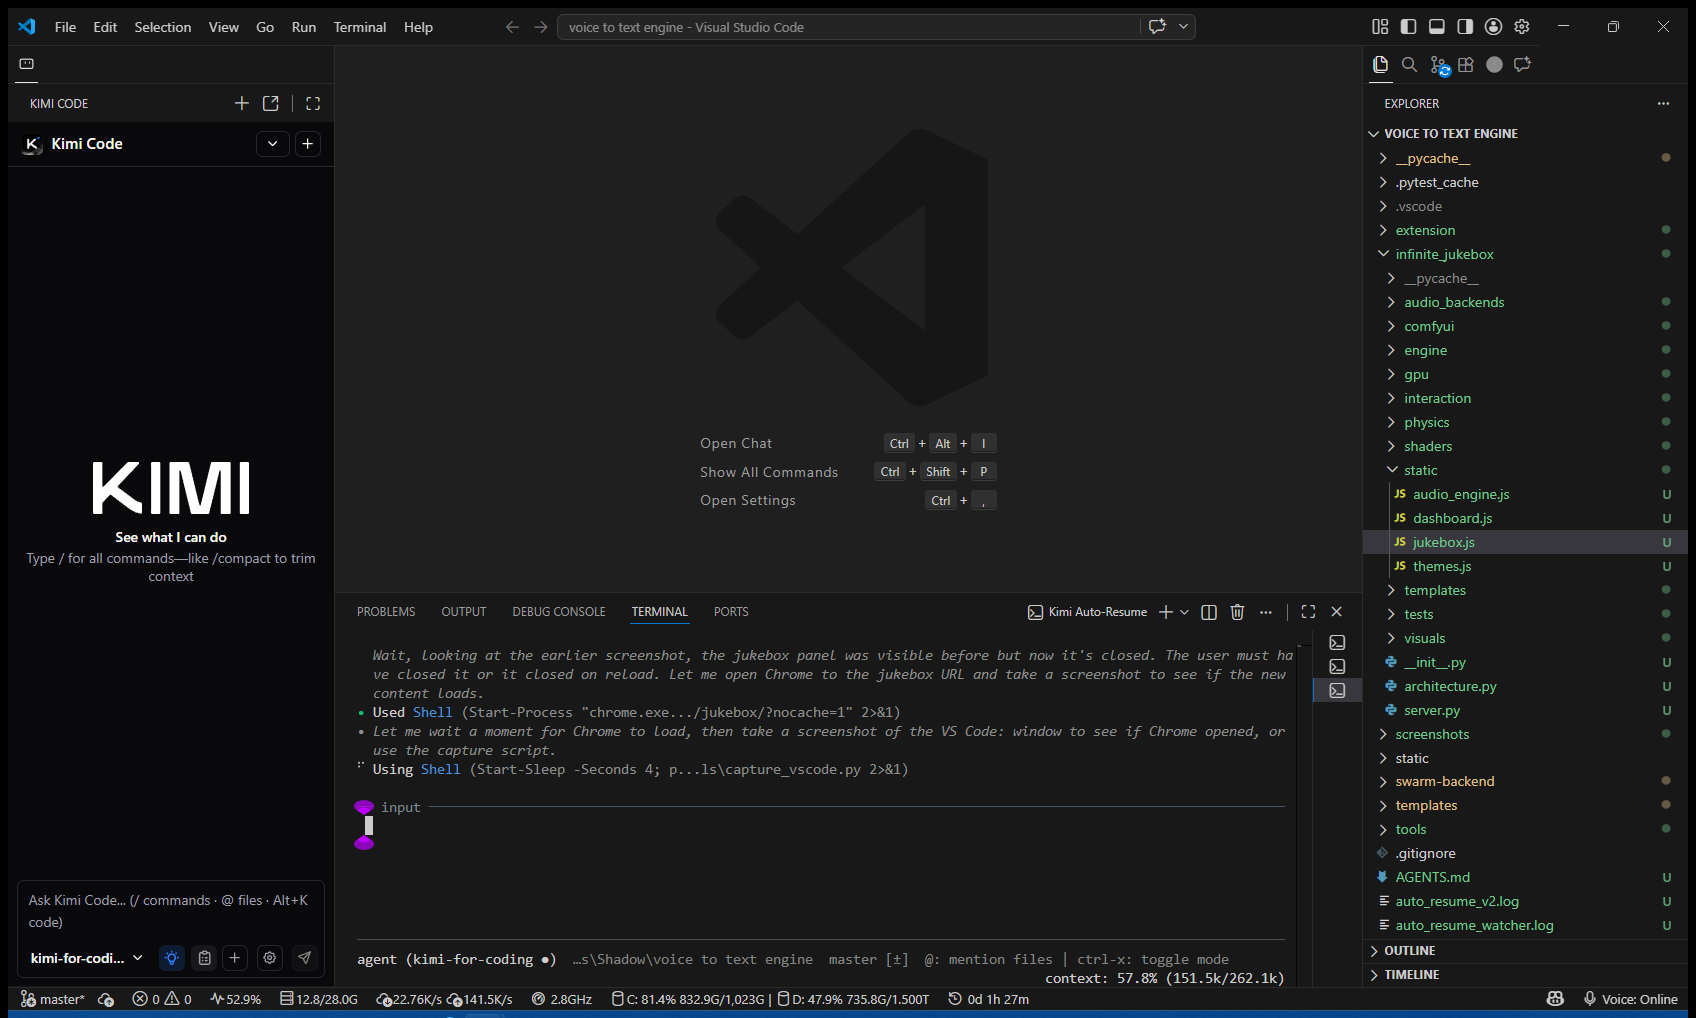
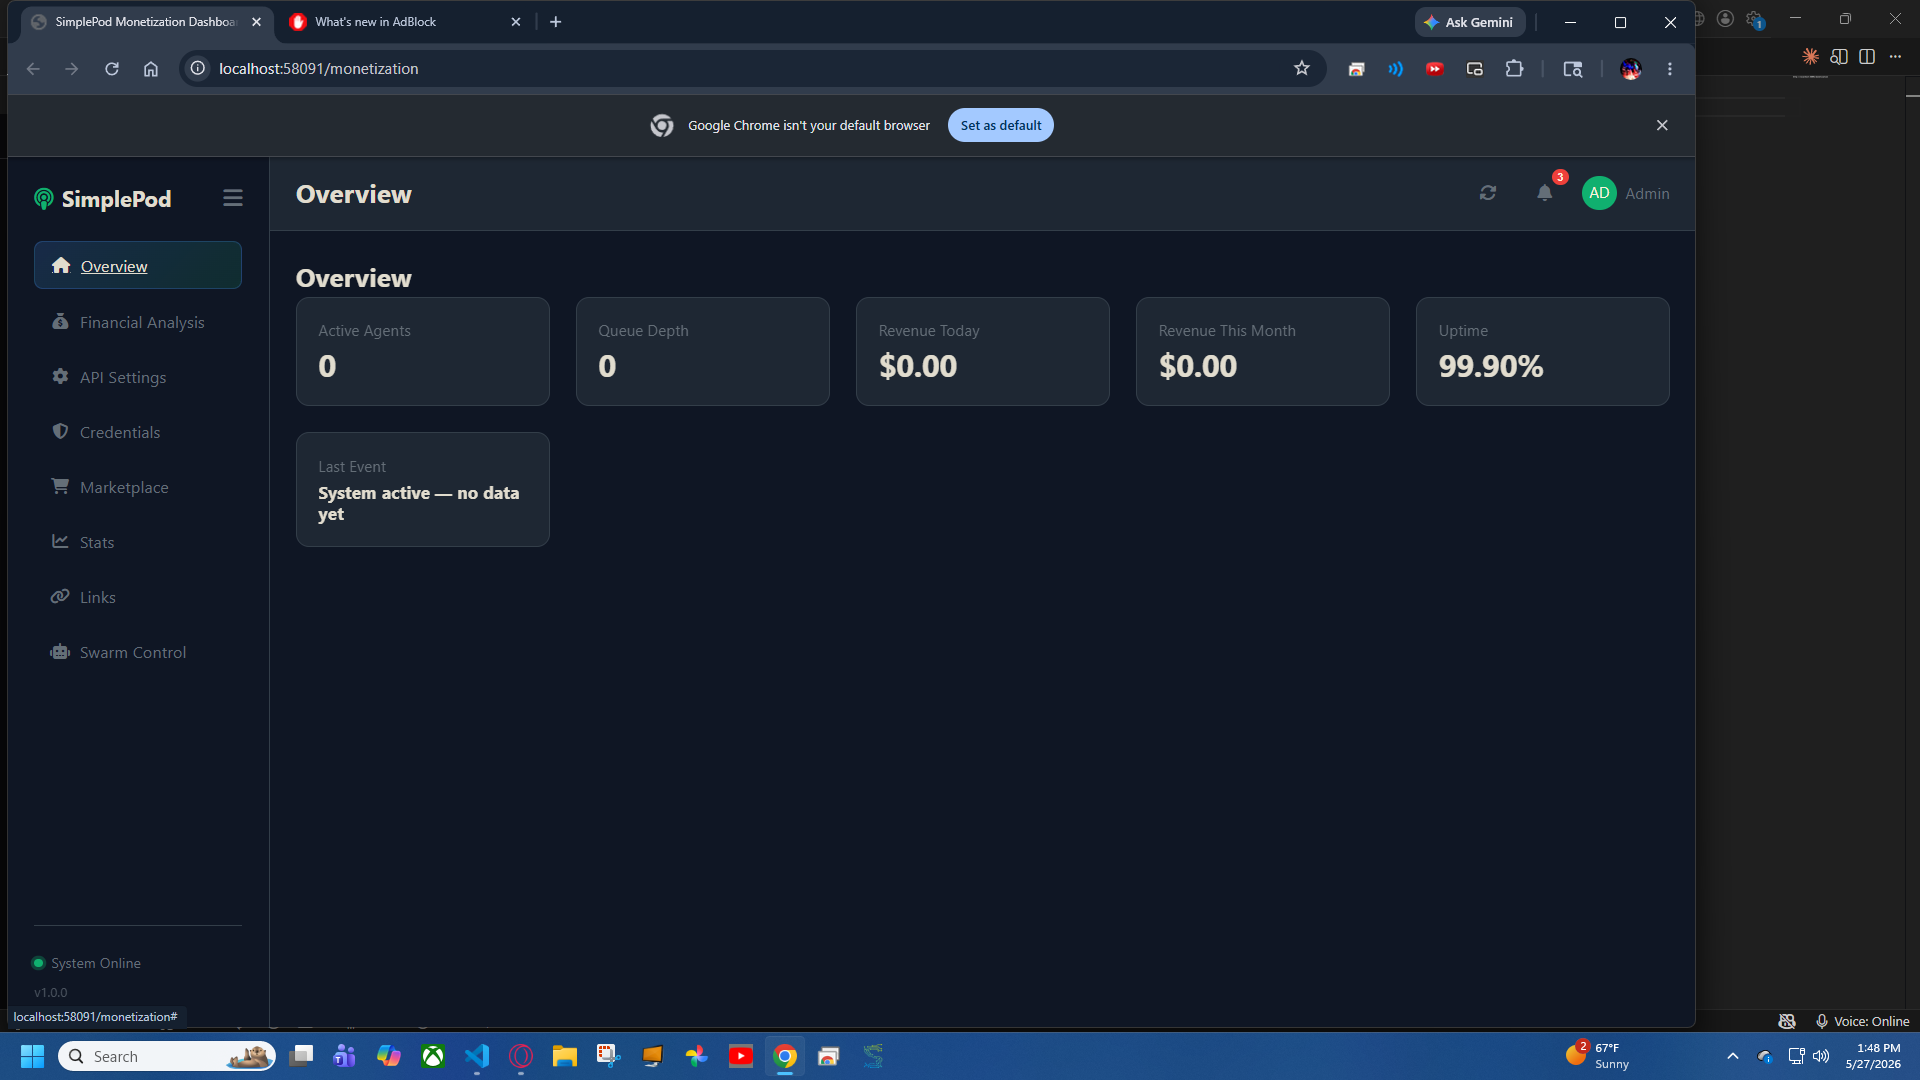
fix: redirect root to monetization dashboard, fix API status field names for JS

diff --git a/simplepod/remote_api.py b/simplepod/remote_api.py
@@ -9,8 +9,8 @@ import time
 from datetime import datetime, timezone
 from typing import Optional
 
-from fastapi import FastAPI, Header, HTTPException
-from fastapi.responses import FileResponse, HTMLResponse, JSONResponse
+from fastapi import FastAPI, Header, HTTPException, Request
+from fastapi.responses import FileResponse, HTMLResponse, JSONResponse, RedirectResponse
 from fastapi.staticfiles import StaticFiles
 from pydantic import BaseModel
 
@@ -80,8 +80,21 @@ def _write_json(path: str, data):
 
 
 @app.get("/")
-def root():
+def root(request: Request):
+    accept = request.headers.get("accept", "")
+    user_agent = request.headers.get("user-agent", "").lower()
+    # If accessed by a browser (not curl/api client), redirect to dashboard
+    if "text/html" in accept and "curl" not in user_agent and "wget" not in user_agent:
+        return RedirectResponse(url="/monetization", status_code=302)
     return {"node_id": NODE_ID, "name": NODE_NAME, "role": NODE_ROLE}
+
+
[email redacted]("/monetization", response_class=HTMLResponse)
+def monetization_redirect():
+    index_path = os.path.join(_BASE_DIR, "static", "monetization", "index.html")
+    if os.path.isfile(index_path):
+        return FileResponse(index_path)
+    return HTMLResponse("<h1>Monetization Dashboard</h1><p>index.html not found.</p>", status_code=404)
 
 
 @app.post("/ping")
@@ -260,28 +273,32 @@ def delete_file(req: PathRequest, x_token: Optional[str] = Header(None)):
 
 # --- Monetization Dashboard Routes ---
 
[email redacted]("/monetization")
-def monetization_dashboard():
-    index_path = os.path.join(_BASE_DIR, "static", "monetization", "index.html")
-    if os.path.isfile(index_path):
-        return FileResponse(index_path)
-    return HTMLResponse("<h1>Monetization Dashboard</h1><p>index.html not found.</p>", status_code=404)
-
-
 @app.get("/monetization/api/status")
 def monetization_api_status():
     try:
         vault = _read_json(_project_path("tools", "saved_sessions", "unified_business_vault.json"), {})
         if vault:
-            return {"ok": True, **vault}
+            # Normalize vault fields to match dashboard JS expectations
+            return {
+                "ok": True,
+                "active_agents": vault.get("agents_online", vault.get("active_agents", 0)),
+                "queue_depth": vault.get("queue_depth", 0),
+                "revenue_today": vault.get("revenue_today", vault.get("revenue", 0.0)),
+                "revenue_month": vault.get("revenue_month", 0.0),
+                "uptime_pct": vault.get("uptime_pct", 99.9),
+                "last_event": vault.get("last_event", "System active"),
+                **vault,
+            }
     except Exception as e:
         return {"ok": False, "error": str(e)}
     return {
         "ok": True,
-        "status": "active",
-        "revenue": 0.0,
-        "agents_online": 0,
-        "last_update": datetime.now(timezone.utc).isoformat(),
+        "active_agents": 0,
+        "queue_depth": 0,
+        "revenue_today": 0.0,
+        "revenue_month": 0.0,
+        "uptime_pct": 99.9,
+        "last_event": "System active — no data yet",
     }
 
 